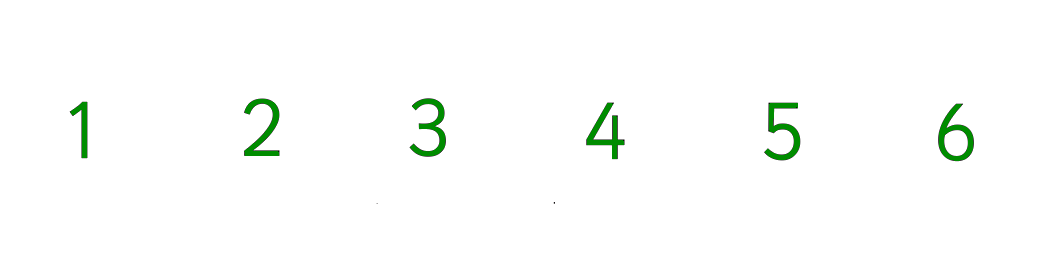
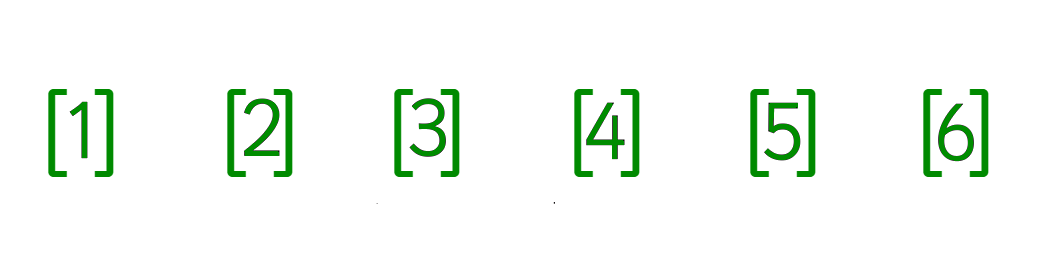
DiceScreen loads buttons from a Json file. changed method names for clarity in battle class. Clearer images for the numbers in the dice class

diff --git a/app/src/main/java/uk/ac/qub/eeecs/game/RiskGame/DiceRollScreen.java b/app/src/main/java/uk/ac/qub/eeecs/game/RiskGame/DiceRollScreen.java
@@ -12,10 +12,16 @@ import uk.ac.qub.eeecs.gage.engine.ElapsedTime;
 import uk.ac.qub.eeecs.gage.engine.graphics.IGraphics2D;
 import uk.ac.qub.eeecs.gage.engine.input.Input;
 import uk.ac.qub.eeecs.gage.engine.input.TouchEvent;
+import uk.ac.qub.eeecs.gage.ui.Button;
 import uk.ac.qub.eeecs.gage.ui.PushButton;
 import uk.ac.qub.eeecs.gage.world.GameScreen;
 import uk.ac.qub.eeecs.gage.world.ScreenViewport;
+import org.json.JSONArray;
+import org.json.JSONException;
+import org.json.JSONObject;
+import java.util.ArrayList;
 
+import java.io.IOException;
 public class DiceRollScreen extends GameScreen {
 
     // /////////////////////////////////////////////////////////////////////////
@@ -63,24 +69,24 @@ public class DiceRollScreen extends GameScreen {
 
     //properties
     Battle battle;
+    private List<PushButton> mButtons = new ArrayList<>();
 
     private ScreenViewport mGameScreenViewport;
     private Paint textPaint = new Paint();
     private float mTimeToChange = 0;
 
-    public DiceRollScreen(Game game, Battle bat) {
+    public DiceRollScreen(Game game, Battle batt) {
         super("RiskScreen", game);
         AssetManager assetManager = mGame.getAssetManager();
         assetManager.loadAssets("txt/assets/DiceRollScreenAssets.JSON");
+        DrawDiceButtons("txt/assets/DiceScreenButtons.JSON", mButtons);
 
-        battle = bat;
+        battle = batt;
         background = assetManager.getBitmap("background");
-
         battle.autoSetNumOfDiceAtt();
         battle.resetDice();
-        DrawDiceButtons();
-        createCalculateAnimation();
 
+        createCalculateAnimation();
         float screenWidth = mGame.getScreenWidth();
         float screenHeight = mGame.getScreenHeight();
 
@@ -111,25 +117,17 @@ public class DiceRollScreen extends GameScreen {
             }
         }
 
-        if (battle.noArmies())
+        if (battle.noTeams())
             mGame.getScreenManager().removeScreen(this);
 
         Input input = mGame.getInput();
         List<TouchEvent> touchEvents = input.getTouchEvents();
         if (touchEvents.size() > 0 && mTimeToChange > 0.5f) {
 
-            mRollDiceButton.update(elapsedTime);
-            mFastBattle.update(elapsedTime);
-            oneDice.update(elapsedTime);
-            twoDice.update(elapsedTime);
-            threeDice.update(elapsedTime);
-            oneDiceSelected.update(elapsedTime);
-            twoDiceSelected.update(elapsedTime);
-            threeDiceSelected.update(elapsedTime);
-            twoDiceSelectedNull.update(elapsedTime);
-            threeDiceSelectedNull.update(elapsedTime);
+            for(PushButton button : mButtons){
+                button.update(elapsedTime);
+            }
 
-            mAbortHack.update(elapsedTime);
             if (mAbortHack.isPushTriggered())
                 mGame.getScreenManager().removeScreen(this);
 
@@ -262,7 +260,6 @@ public class DiceRollScreen extends GameScreen {
         attDiceRolls1 = new Rolling(width * 0.03f, height * 0.50f, this);
         attDiceRolls2 = new Rolling(width * 0.08f, height * 0.50f, this);
         attDiceRolls3 = new Rolling(width * 0.13f, height * 0.50f, this);
-
         //the defenders Dice
         defDiceRolls1 = new Rolling(width * 0.9f, height * 0.50f, this);
         defDiceRolls2 = new Rolling(width * 0.95f, height * 0.50f, this);
@@ -329,97 +326,55 @@ public class DiceRollScreen extends GameScreen {
     }
 
     //just drawing all the buttons.
-    public void DrawDiceButtons() {
-        //The Roll Button
-        mRollDiceButton = new PushButton(
-                mDefaultLayerViewport.getWidth() * 0.65f,
-                mDefaultLayerViewport.getHeight() * 0.1f,
-                mDefaultLayerViewport.getWidth() * 0.15f,
-                mDefaultLayerViewport.getHeight() * 0.2f,
-                "Roll1", "Roll2", this);
+    public void DrawDiceButtons(String buttonsToConstructJSONFile, List<PushButton> buttons) {
 
-        mFastBattle = new PushButton(
-                mDefaultLayerViewport.getWidth() * 0.49f,
-                mDefaultLayerViewport.getHeight() * 0.4f,
-                mDefaultLayerViewport.getWidth() * 0.2f,
-                mDefaultLayerViewport.getHeight() * 0.267f,
-                "FastBattle", "FastBattleSelected", this);
+        String loadedJSON;
+        try {
+            loadedJSON = mGame.getFileIO().loadJSON(buttonsToConstructJSONFile);
+        } catch (IOException e) {
+            throw new RuntimeException(
+                    "DemoMenuScreen.constructButtons: Cannot load JSON [" + buttonsToConstructJSONFile + "]");
+        }
 
+        try {
+            JSONObject settings = new JSONObject(loadedJSON);
+            JSONArray buttonDetails = settings.getJSONArray("pushButtons");
 
-//////////////////////////////////////////////////////////////////////////////////////////////////
-        //The images with a dice
-        oneDiceSelected = new PushButton(
-                mDefaultLayerViewport.getWidth() * 0.037f,
-                mDefaultLayerViewport.getHeight() * 0.115f,
-                mDefaultLayerViewport.getWidth() * 0.08f,
-                mDefaultLayerViewport.getHeight() * 0.1066f,
-                "Dice1Selected", "ChooseDiceNumber1", this);
+            // Store the game layer width and height
+            float layerWidth = mDefaultLayerViewport.getWidth();
+            float layerHeight = mDefaultLayerViewport.getHeight();
 
-        oneDice = new PushButton(
-                mDefaultLayerViewport.getWidth() * 0.037f,
-                mDefaultLayerViewport.getHeight() * 0.115f,
-                mDefaultLayerViewport.getWidth() * 0.08f,
-                mDefaultLayerViewport.getHeight() * 0.1066f,
-                "ChooseDiceNumber1", "Dice1Selected", this);
+            // Construct each button
+            for (int idx = 0; idx < buttonDetails.length(); idx++){
+                float x = (float)buttonDetails.getJSONObject(idx).getDouble("x");
+                float y = (float)buttonDetails.getJSONObject(idx).getDouble("y");
+                float width = (float)buttonDetails.getJSONObject(idx).getDouble("width");
+                float height = (float)buttonDetails.getJSONObject(idx).getDouble("height");
 
-//////////////////////////////////////////////////////////////////////////////////////////////////
+                String defaultBitmap = buttonDetails.getJSONObject(idx).getString("defaultBitmap");
+                String pushBitmap = buttonDetails.getJSONObject(idx).getString("pushBitmap");
 
-        //The image with two Dice
-        twoDiceSelected = new PushButton(
-                mDefaultLayerViewport.getWidth() * 0.205f,
-                mDefaultLayerViewport.getHeight() * 0.115f,
-                mDefaultLayerViewport.getWidth() * 0.08f,
-                mDefaultLayerViewport.getHeight() * 0.1066f,
-                "Dice2Selected", "ChooseDiceNumber2", this);
+                PushButton button = new PushButton(x*layerWidth, y*layerHeight,
+                        width*layerWidth, height*layerHeight,
+                        defaultBitmap, pushBitmap, this);
+                buttons.add(button);
+            }
 
-        twoDiceSelectedNull = new PushButton(
-                mDefaultLayerViewport.getWidth() * 0.205f,
-                mDefaultLayerViewport.getHeight() * 0.115f,
-                mDefaultLayerViewport.getWidth() * 0.08f,
-                mDefaultLayerViewport.getHeight() * 0.1066f,
-                "Dice2SelectedNull", "ChooseDiceNumber2Null", this);
+        } catch (JSONException | IllegalArgumentException e) {
+            throw new RuntimeException(
+                    "DemoMenuScreen.constructButtons: JSON parsing error [" + e.getMessage() + "]");
+        }
 
-        twoDice = new PushButton(
-                mDefaultLayerViewport.getWidth() * 0.205f,
-                mDefaultLayerViewport.getHeight() * 0.115f,
-                mDefaultLayerViewport.getWidth() * 0.08f,
-                mDefaultLayerViewport.getHeight() * 0.1066f,
-                "ChooseDiceNumber2", "Dice2Selected", this);
-
-
-//////////////////////////////////////////////////////////////////////////////////////////////////
-
-        //The image with 3 dice
-        threeDiceSelected = new PushButton(
-                mDefaultLayerViewport.getWidth() * 0.385f,
-                mDefaultLayerViewport.getHeight() * 0.118f,
-                mDefaultLayerViewport.getWidth() * 0.08f,
-                mDefaultLayerViewport.getHeight() * 0.1066f,
-                "Dice3Selected", "ChooseDiceNumber3", this);
-
-        threeDiceSelectedNull = new PushButton(
-                mDefaultLayerViewport.getWidth() * 0.385f,
-                mDefaultLayerViewport.getHeight() * 0.118f,
-                mDefaultLayerViewport.getWidth() * 0.08f,
-                mDefaultLayerViewport.getHeight() * 0.1066f,
-                "Dice3SelectedNull", "ChooseDiceNumber3Null", this);
-
-        threeDice = new PushButton(
-                mDefaultLayerViewport.getWidth() * 0.385f,
-                mDefaultLayerViewport.getHeight() * 0.118f,
-                mDefaultLayerViewport.getWidth() * 0.08f,
-                mDefaultLayerViewport.getHeight() * 0.1066f,
-                "ChooseDiceNumber3", "Dice3Selected", this);
-
-
-//////////////////////////////////////////////////////////////////////////////////////////////////
-        mAbortHack = new PushButton(
-                mDefaultLayerViewport.getWidth() * 0.9f,
-                mDefaultLayerViewport.getHeight() * 0.11f,
-                mDefaultLayerViewport.getWidth() * 0.15f,
-                mDefaultLayerViewport.getHeight() * 0.2f,
-                "AbortHack", "AbortHackSelected", this);
-        mAbortHack.setPlaySounds(true, true);
-
+        mRollDiceButton = buttons.get(0);
+        mFastBattle = buttons.get(1);
+        oneDiceSelected = buttons.get(2);
+        oneDice = buttons.get(3);
+        twoDiceSelected = buttons.get(4);
+        twoDiceSelectedNull = buttons.get(5);
+        twoDice = buttons.get(6);
+        threeDiceSelected = buttons.get(7);
+        threeDiceSelectedNull = buttons.get(8);
+        threeDice = buttons.get(9);
+        mAbortHack = buttons.get(10);
     }
 }

diff --git a/app/src/main/java/uk/ac/qub/eeecs/game/RiskGame/Battle.java b/app/src/main/java/uk/ac/qub/eeecs/game/RiskGame/Battle.java
@@ -2,7 +2,7 @@ package uk.ac.qub.eeecs.game.RiskGame;
 
 public class Battle {
     private int numOfDiceAtt, numOfDiceDef, numOfAttTeams, numOfDefTeams;
-    Field attackField, defendField;
+    private Field attackField, defendField;
     private DiceRoll diceRollAtt = new DiceRoll(numOfDiceAtt);
     private DiceRoll diceRollDef = new DiceRoll(numOfDiceDef);
 
@@ -24,7 +24,7 @@ public class Battle {
             autoSetNumOfDiceAtt();
             singleBattle();
         }
-        while (!noArmies());
+        while (!noTeams());
     }
 
     //A battle that is done one by one by pressing the roll button on the dice screen.
@@ -49,7 +49,7 @@ public class Battle {
         return false;
     }
 
-    public boolean noArmies(){
+    public boolean noTeams(){
         if(numOfAttTeams == 1 || numOfDefTeams == 0)
             return true;
         return false;

diff --git a/app/src/main/java/uk/ac/qub/eeecs/game/RiskGame/MenuScreen.java b/app/src/main/java/uk/ac/qub/eeecs/game/RiskGame/MenuScreen.java
@@ -59,8 +59,6 @@ public class MenuScreen extends GameScreen {
     private int rightCounter;
 
     public Battle battle;
-    Field field1, field2;
-    public Player google, apple;
 
     AssetManager assetManager = mGame.getAssetManager();
 
@@ -312,10 +310,14 @@ public class MenuScreen extends GameScreen {
 
         Field field1 = new Field(19, "Social Media",0xFF8B1D8F);
         Field field2 = new Field(20, "Research Labs",0xFF8F0081);
+        Field field23 = new Field(21, "Research Labs2",0xFF8F0081);
         field1.setPlayer(google);
         field2.setPlayer(apple);
         field1.setNumOfTeams(5);
         field2.setNumOfTeams(5);
+        ArrayList<Field> connected = new ArrayList<>();
+        connected.add(field2);
+        field1.addConnectedFields(connected);
         battle = new Battle(field1, field2);
     }
 }

diff --git a/app/src/main/java/uk/ac/qub/eeecs/game/RiskGame/DiceRoll.java b/app/src/main/java/uk/ac/qub/eeecs/game/RiskGame/DiceRoll.java
@@ -7,7 +7,6 @@ public class DiceRoll {
 
     private int[] diceResults;
     private int total;
-    private PushButton mDiceButton1;
 
     public DiceRoll(int num_of_dice){
 
